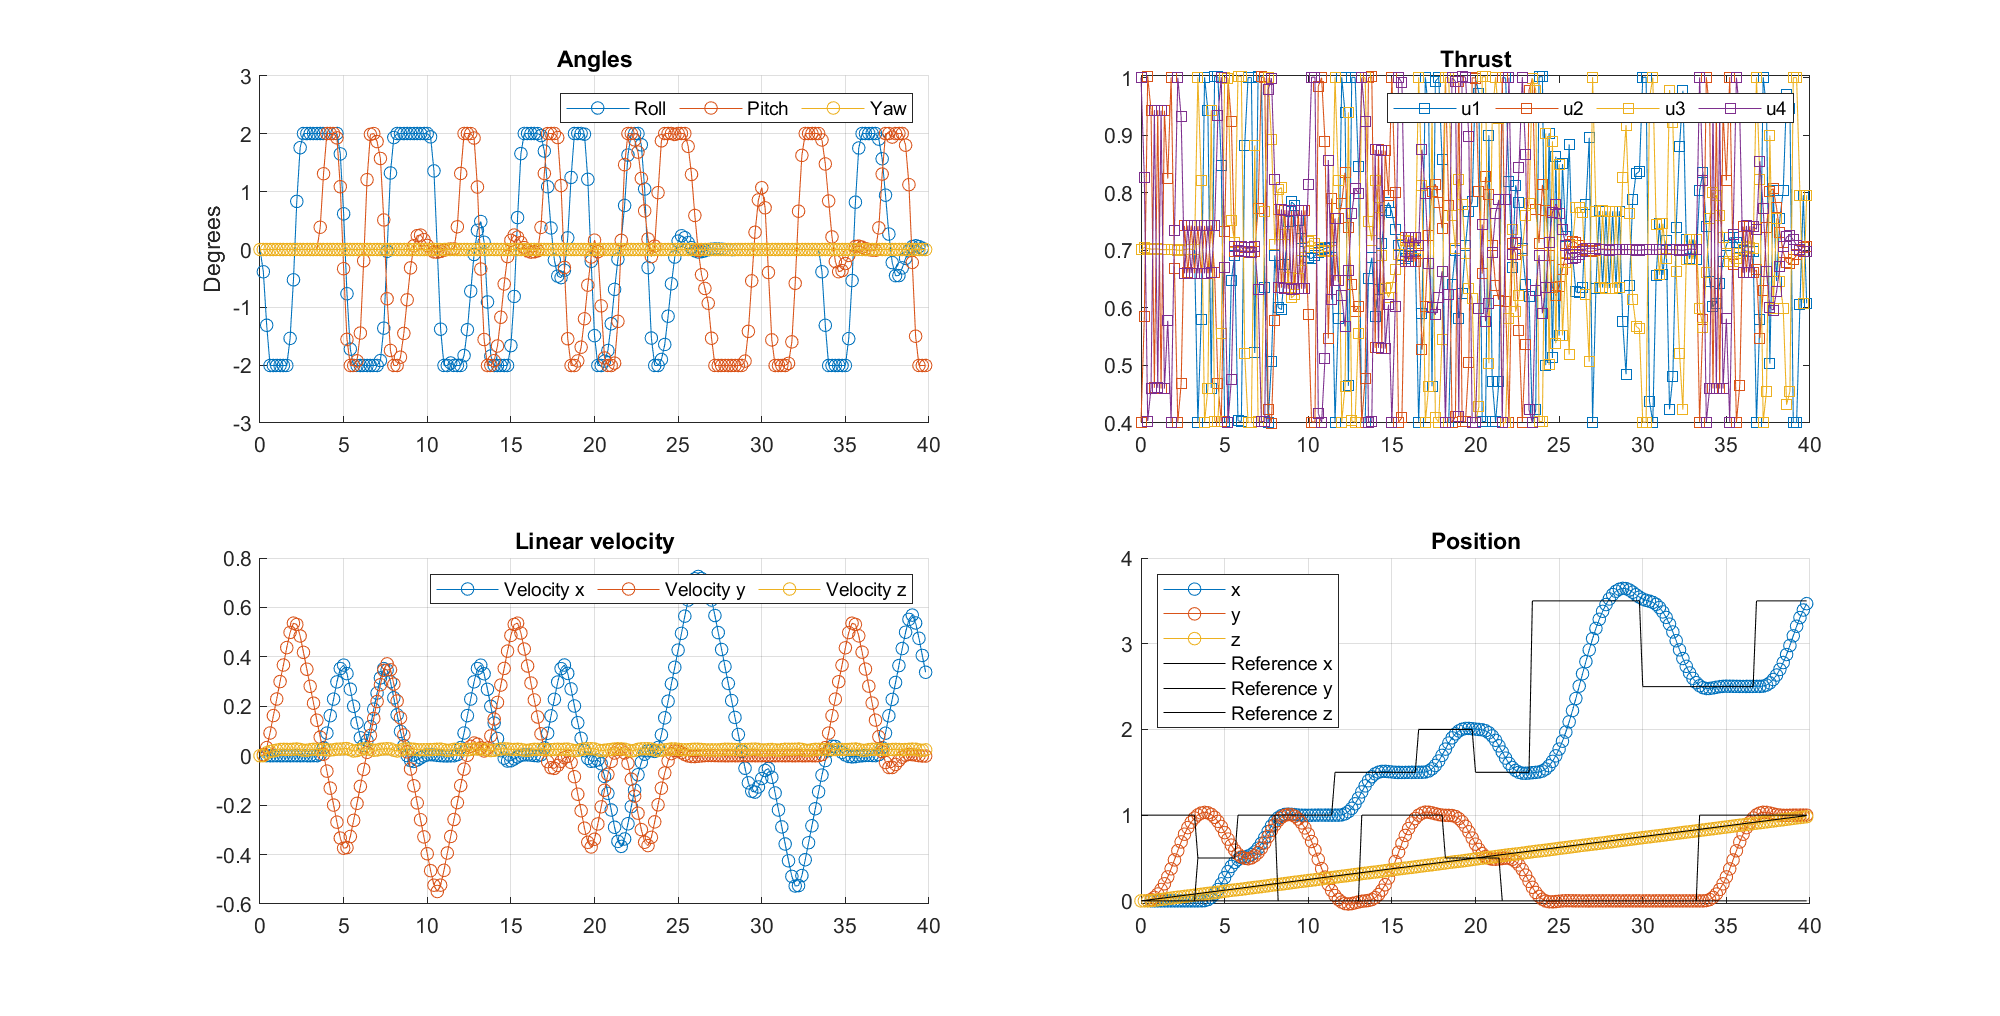
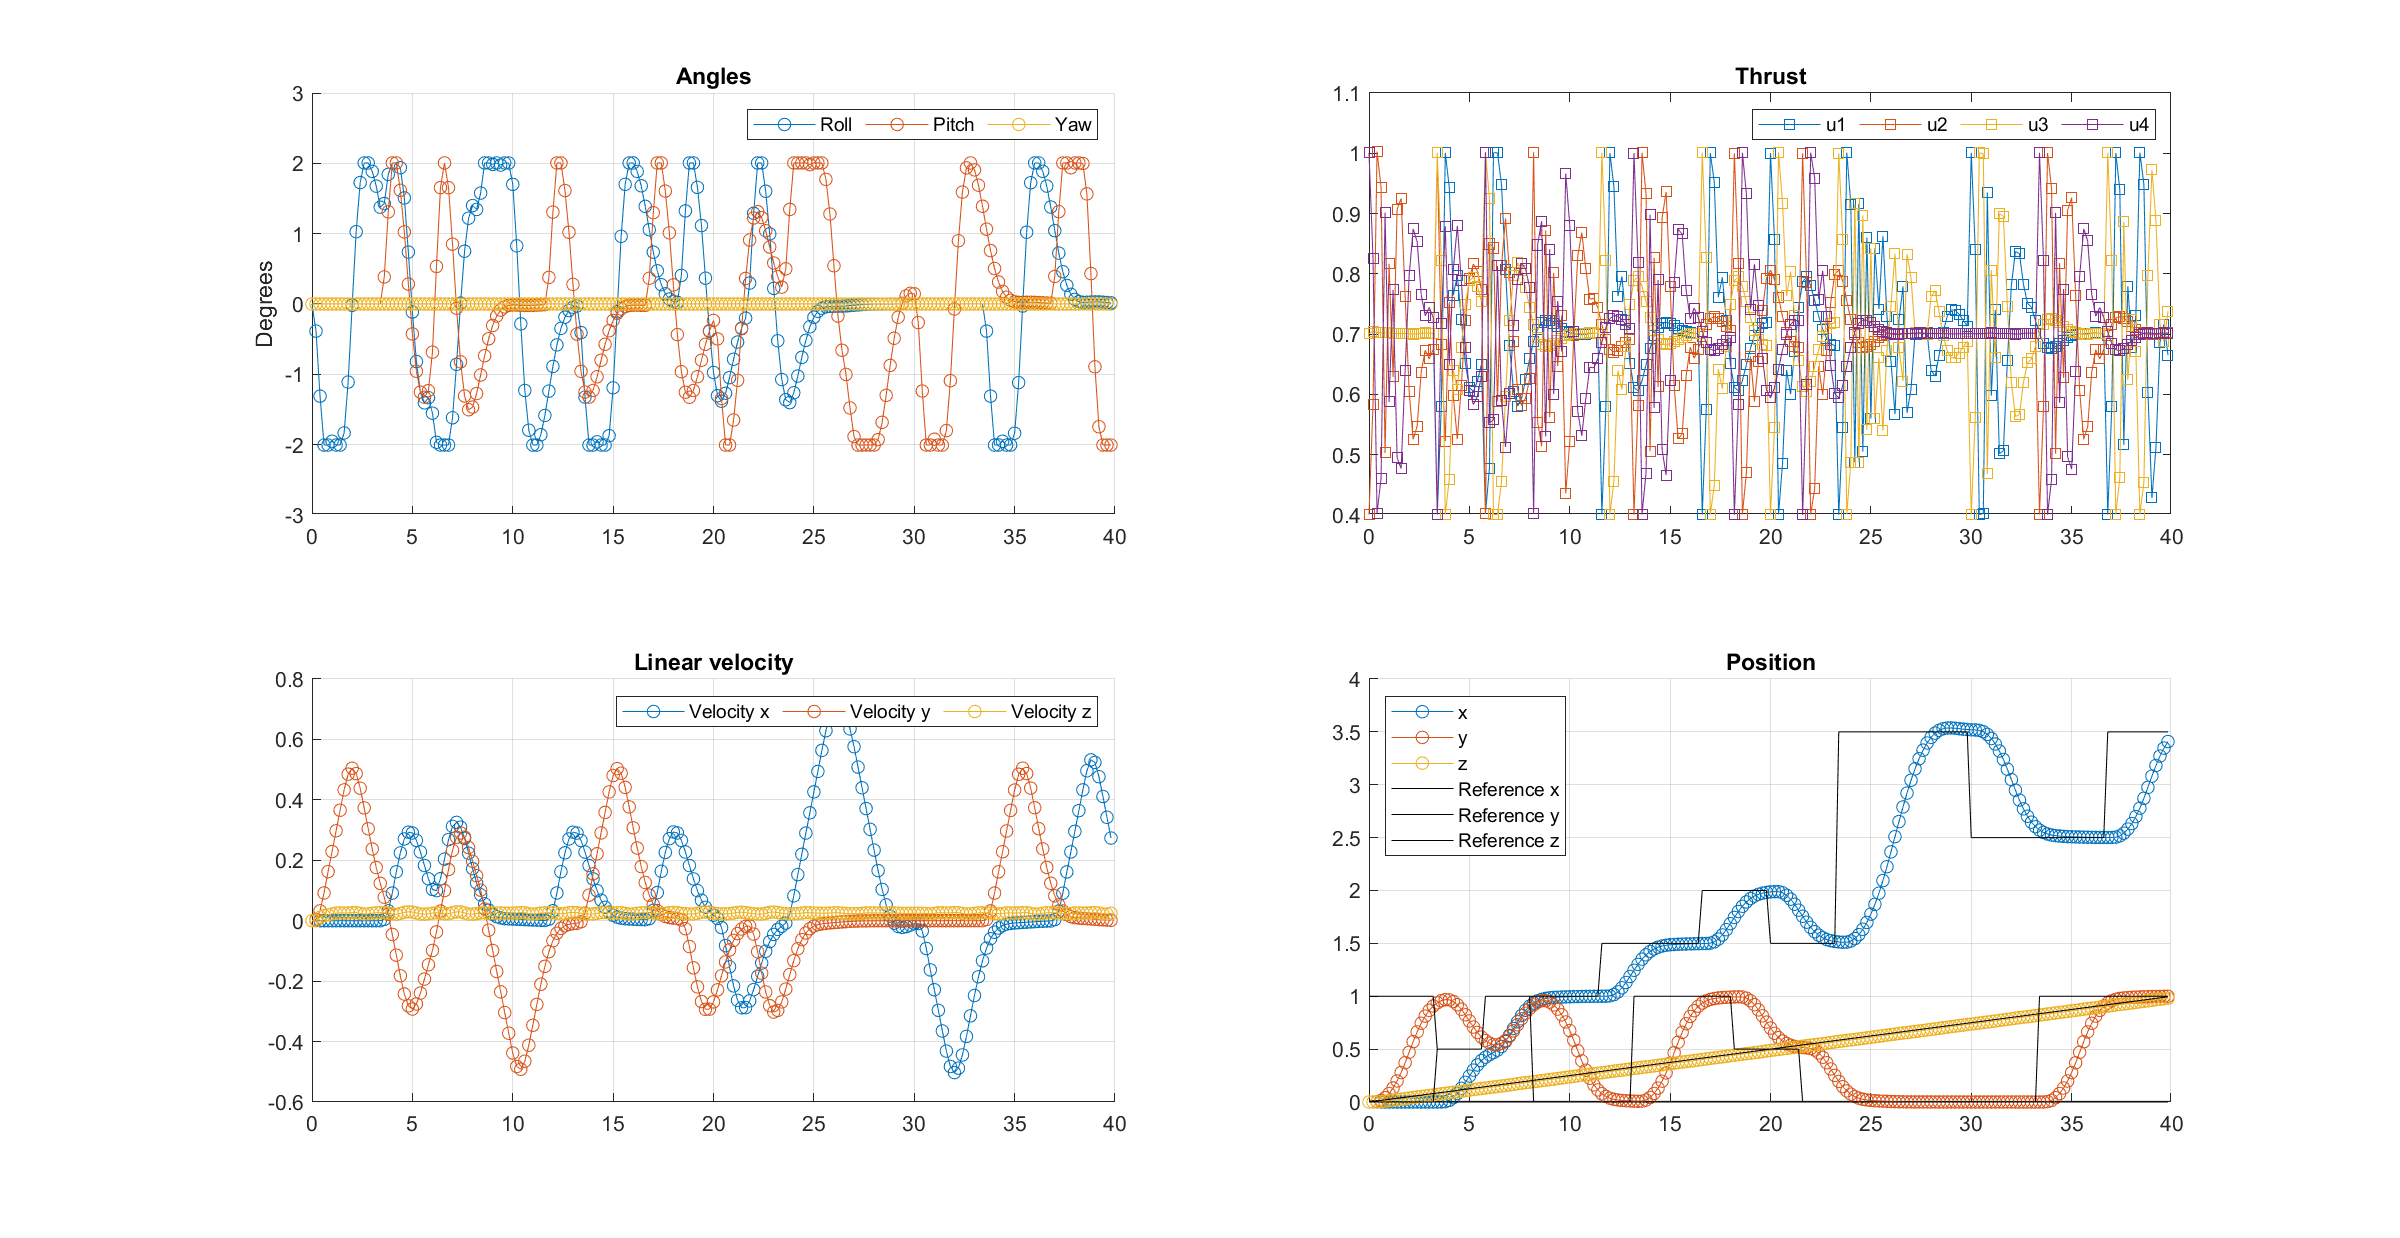
worked on some plotting

diff --git a/src/Deliverable3_2.m b/src/Deliverable3_2.m
@@ -52,7 +52,7 @@ plot(linspace(0,simTime,simTime/Ts),xlist(4,:), 'DisplayName', 'Case 1', ...
 ylabel('X position in [m]')
 xlabel('Time in [s]')
 title('Deliv. 3-2 X-Position over Time')
-axis padded
+%axis padded
 legend show
 
 subplot(2,2,2), hold on, grid on
@@ -61,7 +61,7 @@ plot(linspace(0,simTime,simTime/Ts),ylist(4,:), 'DisplayName', 'Case 1', ...
 ylabel('Y position in [m]')
 xlabel('Time in [s]')
 title('Deliv. 3-2 Y-Position over Time')
-axis padded
+%axis padded
 legend show
 
 subplot(2,2,3), hold on, grid on
@@ -70,7 +70,7 @@ plot(linspace(0,simTime,simTime/Ts),zlist(2,:), 'DisplayName', 'Case 1', ...
 ylabel('Z position in [m]')
 xlabel('Time in [s]')
 title('Deliv. 3-2 Z-Position over Time')
-axis padded
+%axis padded
 legend show
 
 subplot(2,2,4), hold on, grid on
@@ -79,7 +79,7 @@ plot(linspace(0,simTime,simTime/Ts),rad2deg(yawlist(2,:)), 'DisplayName', 'Case 
 ylabel('Yaw in Degree')
 xlabel('Time in [s]')
 title('Deliv. 3-2 Yaw-Angle over Time')
-axis padded
+%axis padded
 legend show
 legend('Location', 'southeast')
 

diff --git a/src/Deliverable6_1.m b/src/Deliverable6_1.m
@@ -6,3 +6,16 @@ quad = Quad();
 CTRL = ctrl_NMPC(quad);
 sim = quad.sim(CTRL)
 quad.plot(sim)
+figure(1)
+saveas(gcf, 'Deliverable6nosoft_Figure1.png')
+
+figure(2)
+view(90,0)
+saveas(gcf, 'Deliverable6nosoft_Figure2_yz.png') % Added to the given ...
+% Matlab Code in order to automatically save the images
+view(0,0)
+saveas(gcf, 'Deliverable6nosoft_Figure2_xz.png')
+view(0,90)
+saveas(gcf, 'Deliverable6nosoft_Figure2_yx.png')
+view(-45,45)
+saveas(gcf, 'Deliverable6nosoft_Figure2_3d.png')

diff --git a/src/ctrl_NMPC.m b/src/ctrl_NMPC.m
@@ -43,7 +43,7 @@ Qrotation = 0.1*eye(3); Qangle = 1*eye(3); Qspeed = 1*eye(3); Qposition = diag([
 R = 10^-1*eye(4);
 Q = blkdiag(Qrotation,Qangle,Qspeed,Qposition);
 % Weight for soft constraint
-W = 1000;
+W = 100;
 % Terminal cost
 Qrotf = diag([Qfx(1);Qfy(1);Qfyaw(1)]); Qanf = diag([Qfx(2);Qfy(2);Qfyaw(2)]); Qspf = diag([Qfx(3);Qfy(3);Qfz(1)]); Qposf = diag([Qfx(4);Qfy(4);Qfz(2)]);
 Qf = blkdiag(Qrotf,Qanf,Qspf,Qposf);

diff --git a/src/MPC_Control_y.m b/src/MPC_Control_y.m
@@ -46,7 +46,7 @@ classdef MPC_Control_y < MPC_Control
     %[Hf,hf] = Control_Invariant(H,h,G,g,A,B);
     [Ht,ht] = Terminal_Invariant(H,h,G,g,A,B,K,'y');
     % Compute (Choose) cost functions
-    Q = diag([0.1;0.5;1;10]); R = 0.1*eye(1);
+    Q = diag([0.5;1;0.5;1]); R = 0.1*eye(1);
       % WRITE THE CONSTRAINTS AND OBJECTIVE HERE
       con = [];
       obj = 0;

diff --git a/src/MPC_Control_x.m b/src/MPC_Control_x.m
@@ -49,7 +49,7 @@ classdef MPC_Control_x < MPC_Control
     [Ht,ht] = Terminal_Invariant(H,h,G,g,A,B,K, 'x');
     
     % Compute (Choose) cost functions
-    Q = diag([0.1;0.5;1;10]); R = 0.1*eye(1);
+    Q = diag([1;1;0.5;1]); R = 0.1*eye(1);
       
     % WRITE THE CONSTRAINTS AND OBJECTIVE HERE
       con = [];
